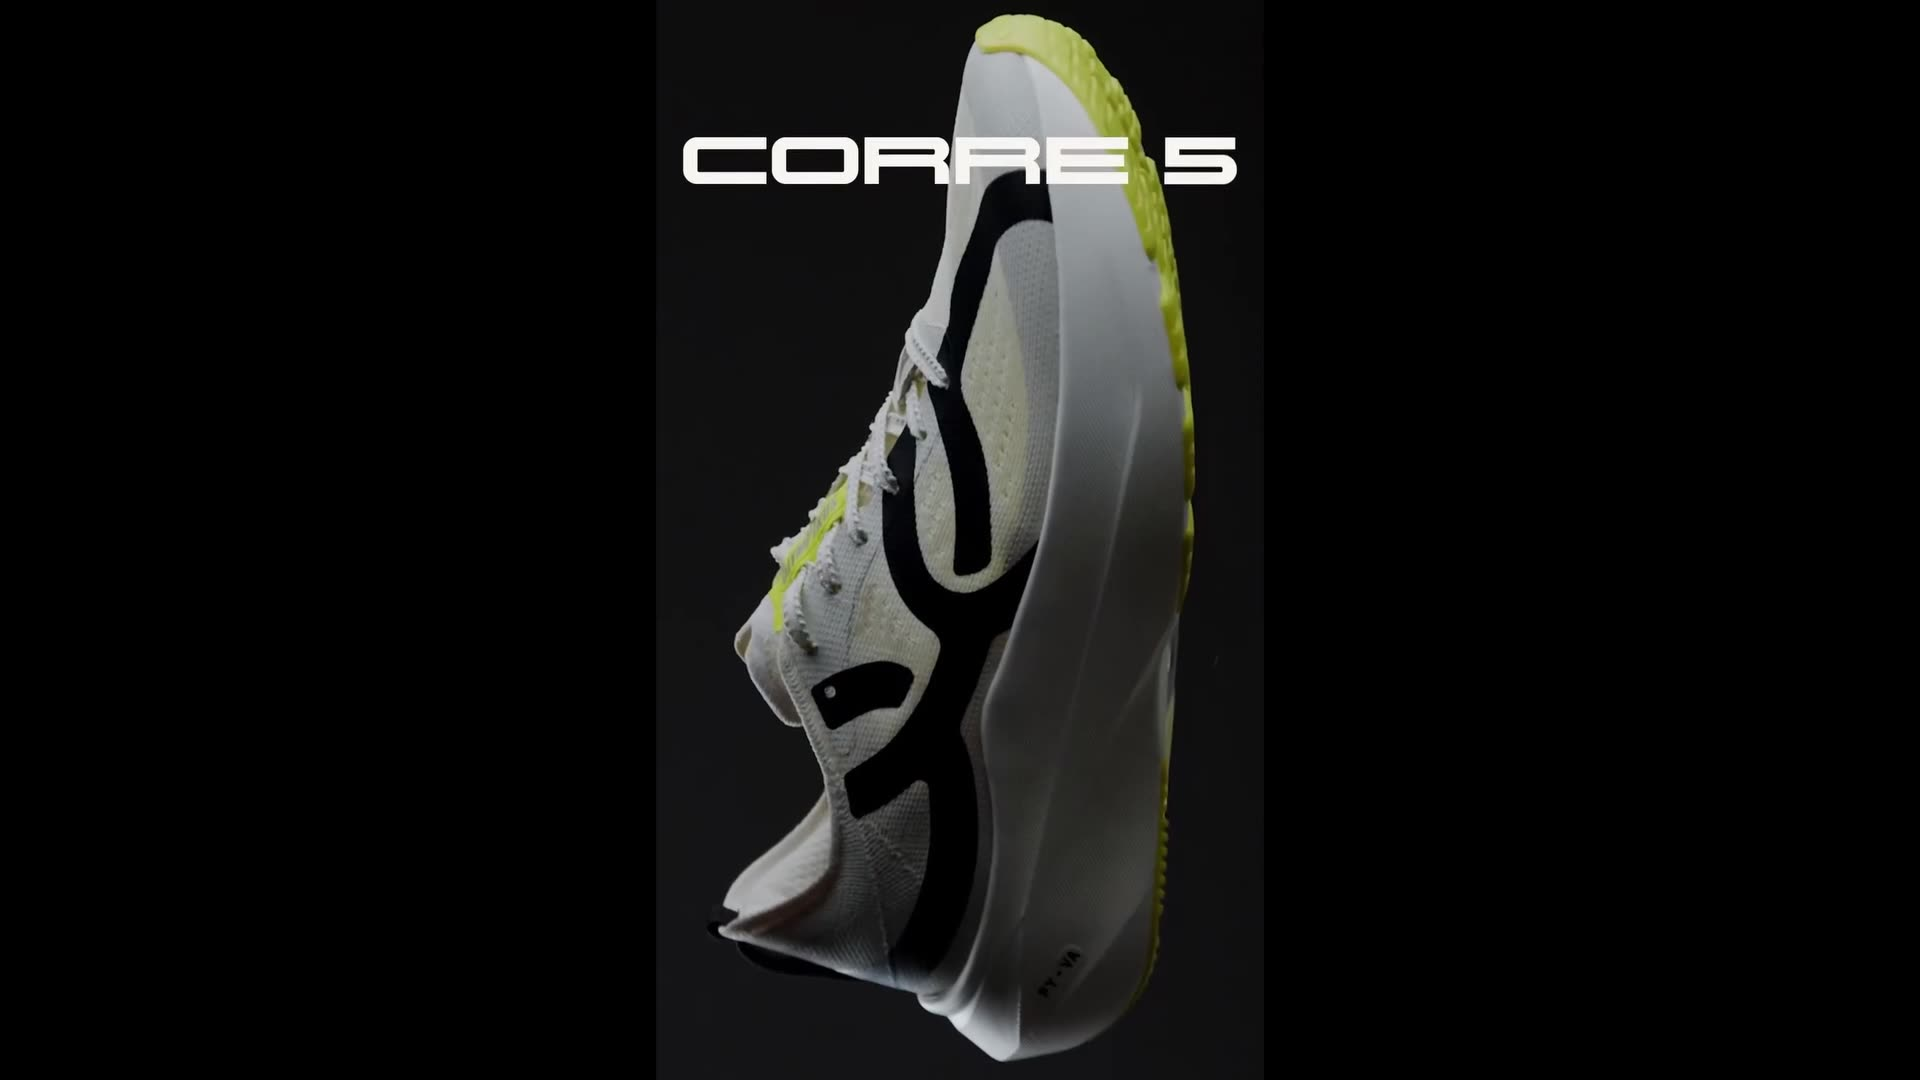
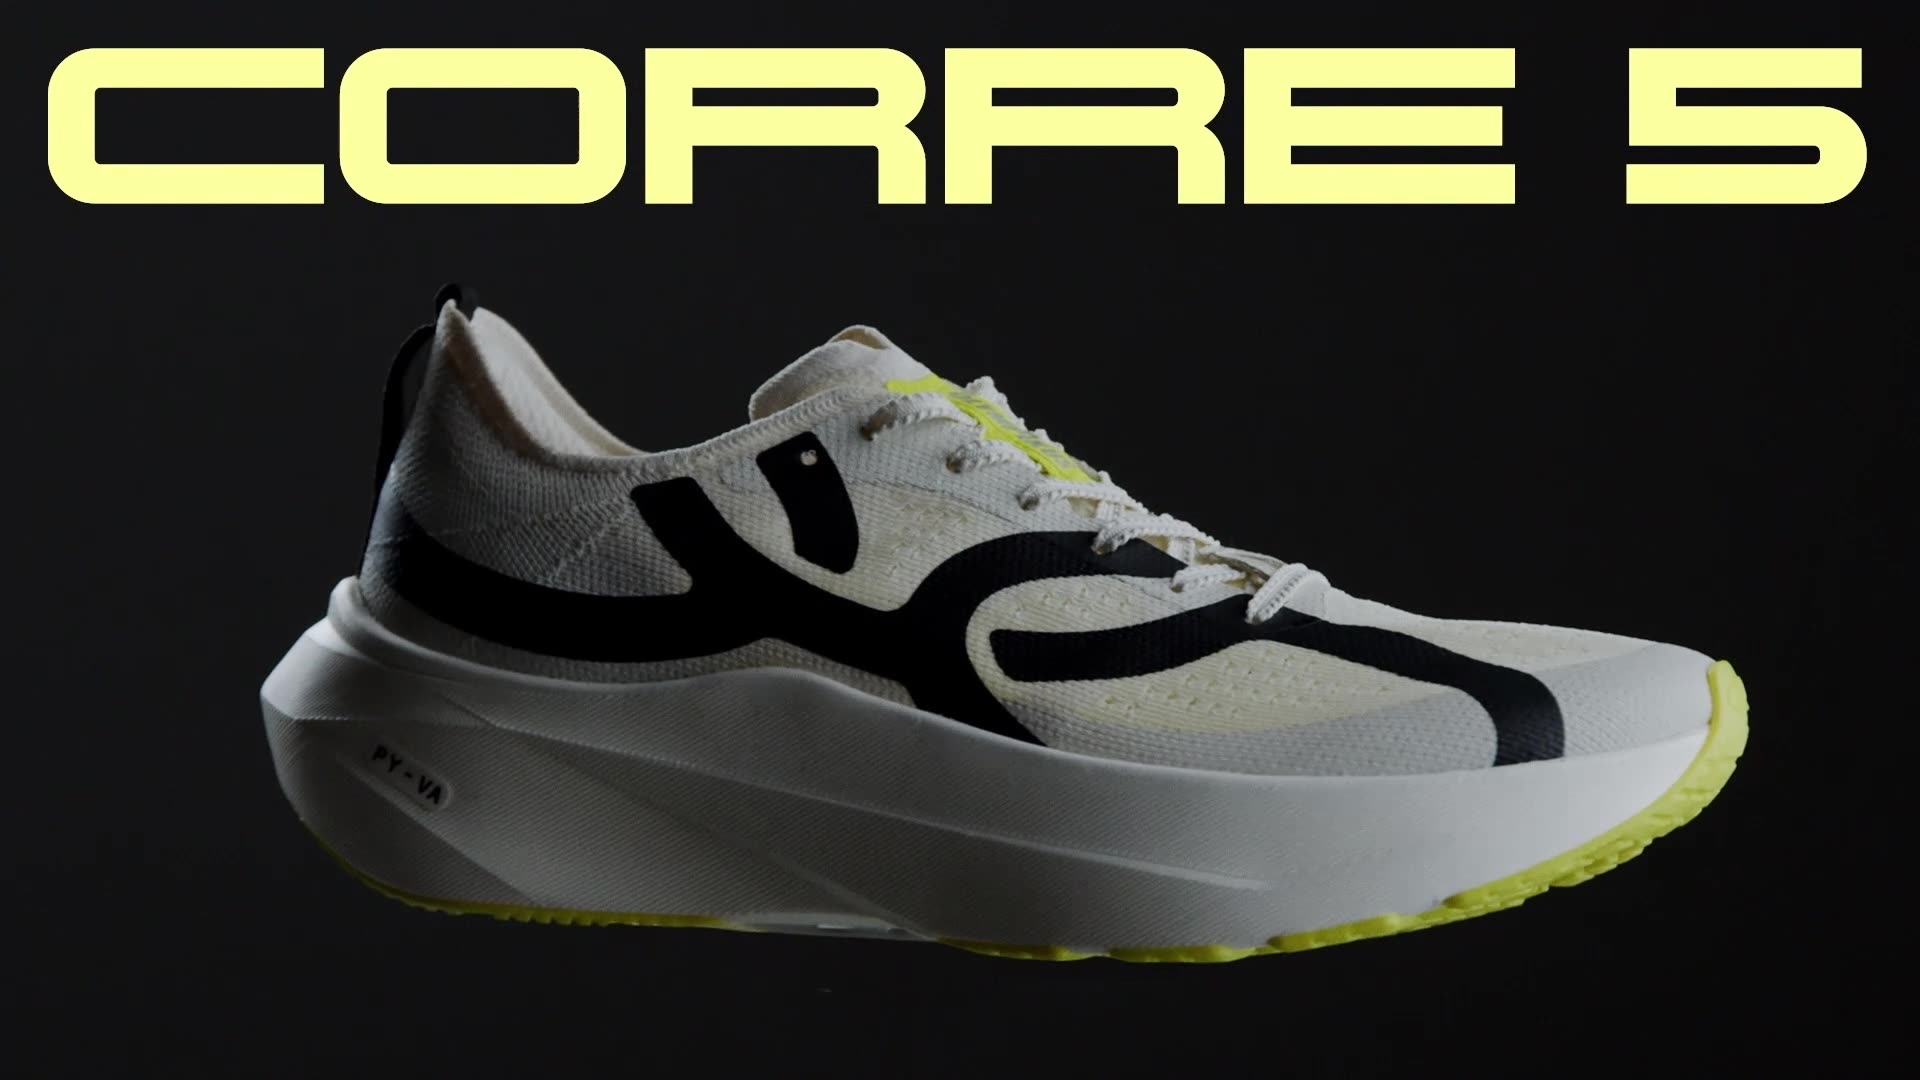
Replace Olympikus preview video with CORRE5_16X9 cut
The old olympikus-corre5-full.mp4 on R2 (a previous cut, cache-busted as
?v=corte) is replaced by a fresh 1080p H.264 compression of
assets/work/real/CORRE5_16X9.mov — 1m15s, no audio (preview is muted
+ looping; full-audio version stays on Vimeo id 1191598803).

Compression: libx264 preset slow, CRF 27, no audio, faststart for
streaming. Output 19.5 MB (was 6.4 MB; the new clip is longer but
the bitrate is tight for 1080p).

R2 object alright-media/olympikus-corre5-full.mp4 overwritten via
wrangler r2 object put.

Other changes:
- Poster JPG regenerated from the new source (3s in).
- Cache-bust query updated ?v=corte → ?v=16x9 in index.html (case 02)
  and 05-deliverables/deck-alright-v3.html (slide 09) so browsers
  refresh the cached version.
- tools/compress-work-assets.mjs slugMap: added CORRE5_16X9.mov →
  olympikus-corre5-full so future compress runs preserve this name.

diff --git a/05-deliverables/deck-alright-v3.html b/05-deliverables/deck-alright-v3.html
@@ -616,7 +616,7 @@ button{font:inherit;color:inherit;background:none;border:0;cursor:pointer}
     </div>
     <div class="s-case__media" data-vimeo-id="1191598803" data-vimeo-title="Olympikus · Corre 5" role="button" tabindex="0">
       <video autoplay muted loop playsinline preload="metadata" poster="../assets/work/web/olympikus-corre5-full-poster.jpg">
-        <source src="https://pub-cbe2e8273b054c8bb52e5dec0dc1e3a7.r2.dev/olympikus-corre5-full.mp4" type="video/mp4" />
+        <source src="https://pub-cbe2e8273b054c8bb52e5dec0dc1e3a7.r2.dev/olympikus-corre5-full.mp4?v=16x9" type="video/mp4" />
       </video>
     </div>
   </section>

diff --git a/index.html b/index.html
@@ -677,7 +677,7 @@ article{margin:0;padding:0;display:block}
     <video autoplay muted loop playsinline preload="metadata"
       poster="assets/work/web/olympikus-corre5-full-poster.jpg"
       aria-label="Olympikus Corre 5">
-      <source src="https://pub-cbe2e8273b054c8bb52e5dec0dc1e3a7.r2.dev/olympikus-corre5-full.mp4?v=corte" type="video/mp4" />
+      <source src="https://pub-cbe2e8273b054c8bb52e5dec0dc1e3a7.r2.dev/olympikus-corre5-full.mp4?v=16x9" type="video/mp4" />
     </video>
   </div>
 </article>
